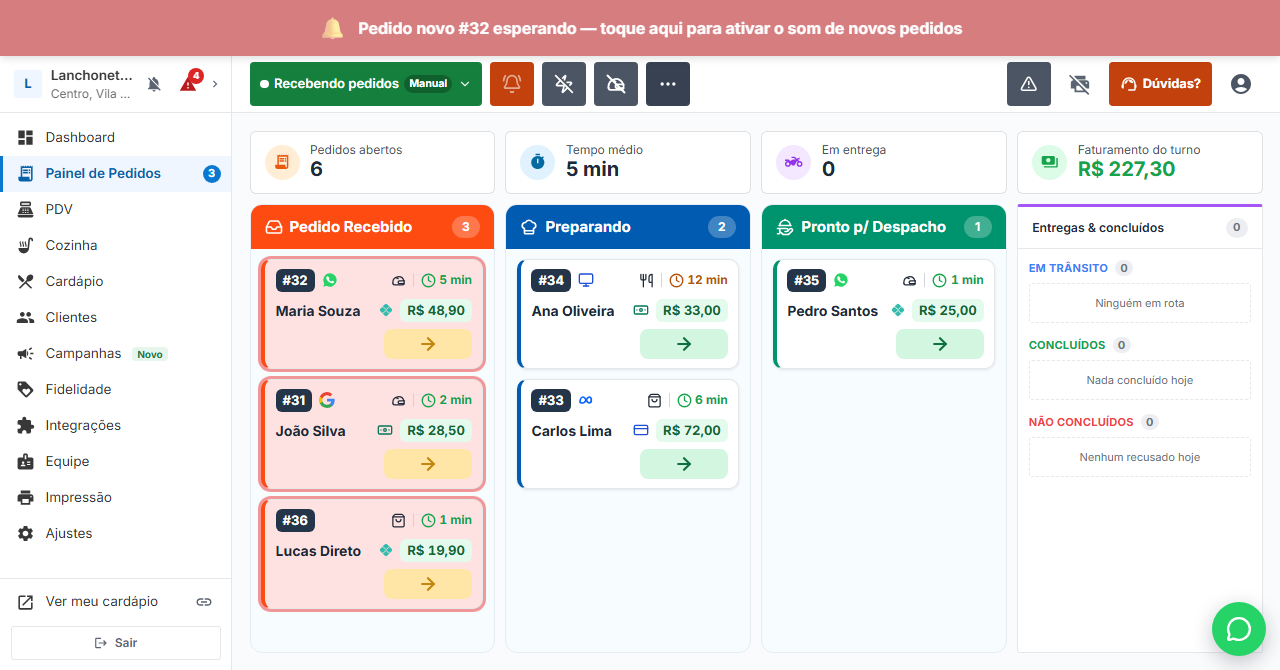
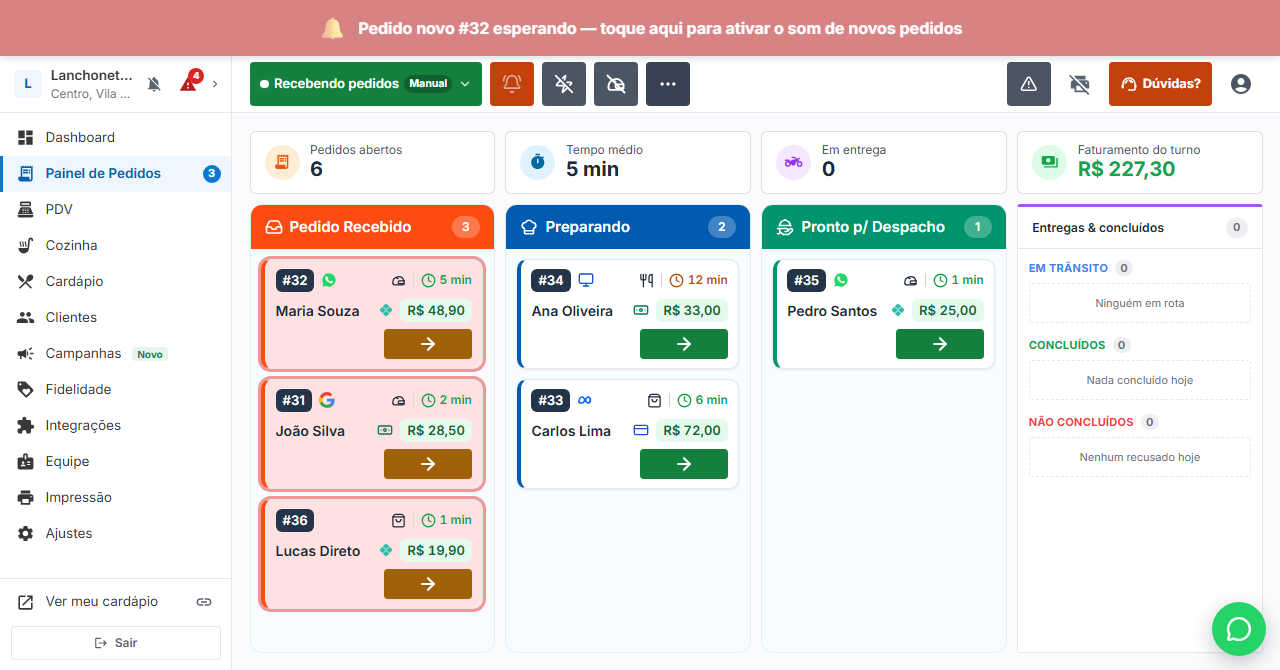
fix(kanban): botões de etapa sólidos e vivos com seta branca e cantos de 4px; peso até 600 no card (itens 55/56, noite 3)
- Aceitar: amarelo-ouro #A16207 (4,9:1); próxima etapa: verde #15803D (5,0:1); seta branca.
  Antes: tons claros do modelo com seta colorida (aceitar 2,6:1).
- Card e cabeçalhos das colunas com peso 600 (regra 6); painel do pedido no mesmo verde do botão.
- e2e-kanban-56 (34/34) e e2e-kanban-card (72/72) seguem a nova especificação.
- e2e-origem-55: a conta do banco tira os pedidos TESTE…, como o Dashboard (item 54); 35/35.
- Prints antes/depois em docs/kanban-56/noite3/.

diff --git a/app/admin/pedidos/page.tsx b/app/admin/pedidos/page.tsx
@@ -157,7 +157,10 @@ function BotaoEtapa({ cor, rotulo, onClick }: { cor: 'aceitar' | 'avancar'; rotu
       title={rotulo}
       data-testid="card-etapa"
       data-cor={cor}
-      className={`inline-flex h-[30px] w-[88px] items-center justify-center rounded-[8px] transition-colors focus-visible:outline focus-visible:outline-2 focus-visible:outline-offset-2 focus-visible:outline-[#1F2937] active:scale-[0.98] ${cor === 'aceitar' ? 'bg-[#FFE6A6] text-[#C2850D] hover:bg-[#FFDB85]' : 'bg-[#D3F6E0] text-[#0F713E] hover:bg-[#BDEFD0]'}`}
+      // Noite 3 (2026-10-06), pedido do dono: fundo sólido mais vivo, seta BRANCA e cantos menos
+      // arredondados. Amarelo-ouro #A16207 (4,9:1 com o branco) e verde #15803D (5,0:1); antes eram
+      // os tons claros do modelo com seta colorida (a do aceitar dava 2,6:1).
+      className={`inline-flex h-[30px] w-[88px] items-center justify-center rounded-[4px] text-white shadow-sm transition-colors focus-visible:outline focus-visible:outline-2 focus-visible:outline-offset-2 focus-visible:outline-[#1F2937] active:scale-[0.98] ${cor === 'aceitar' ? 'bg-[#A16207] hover:bg-[#854D0E]' : 'bg-[#15803D] hover:bg-[#166534]'}`}
     >
       <ArrowRight className="h-[20px] w-[20px]" strokeWidth={2.6} aria-hidden />
     </button>
@@ -968,9 +971,9 @@ export default function PedidosPage() {
                 <div className={`flex items-center justify-between px-4 py-3 text-white ${cfg.headerBg}`} data-testid={`coluna-cabecalho-${coluna}`}>
                   <div className="flex items-center gap-2">
                     <cfg.Icon className="h-[18px] w-[18px]" strokeWidth={2.2} />
-                    <h3 className="text-[15px] font-bold">{cfg.label}</h3>
+                    <h3 className="text-[15px] font-semibold">{cfg.label}</h3>
                   </div>
-                  <span className="min-w-[28px] rounded-full bg-white/25 px-2 py-0.5 text-center text-[12px] font-bold text-white" data-testid={`coluna-contador-${coluna}`}>{colOrders.length}</span>
+                  <span className="min-w-[28px] rounded-full bg-white/25 px-2 py-0.5 text-center text-[12px] font-semibold text-white" data-testid={`coluna-contador-${coluna}`}>{colOrders.length}</span>
                 </div>
                 <div className="flex-1 space-y-3 overflow-y-auto p-3 max-lg:overflow-visible">
                   {colOrders.map((order) => {
@@ -1009,7 +1012,7 @@ export default function PedidosPage() {
                         {/* Linha 1: #número · origem (item 55) ... atendimento | tempo. */}
                         <div className="flex items-center justify-between gap-2">
                           <div className="flex min-w-0 items-center gap-2">
-                            <span className="flex-shrink-0 rounded-[6px] bg-[#243549] px-2 py-0.5 text-[13px] font-bold text-white" data-testid="card-numero">#{order.numero}</span>
+                            <span className="flex-shrink-0 rounded-[6px] bg-[#243549] px-2 py-0.5 text-[13px] font-semibold text-white" data-testid="card-numero">#{order.numero}</span>
                             {(() => {
                               const o = origemVisivelNoCard(order)
                               return o ? (
@@ -1033,7 +1036,7 @@ export default function PedidosPage() {
                             })()}
                             <span className="h-4 w-px bg-[#D0D5DD]" aria-hidden />
                             <span
-                              className={`inline-flex items-center gap-1 whitespace-nowrap text-[12px] font-bold tabular-nums ${corTempo}`}
+                              className={`inline-flex items-center gap-1 whitespace-nowrap text-[12px] font-semibold tabular-nums ${corTempo}`}
                               title={pedidoParado(order, now) ? `Aberto há ${textoTempoPedido(idadeMs)}: ninguém fechou este pedido. Conclua ou cancele.` : 'Tempo desde que o pedido chegou'}
                               data-testid="card-tempo"
                             >
@@ -1045,7 +1048,7 @@ export default function PedidosPage() {
                         {/* Linha 2: cliente · telefone · forma de pagamento · valor. */}
                         <div className="mt-2 flex min-w-0 items-center justify-between gap-2">
                           <div className="flex min-w-0 items-center gap-2.5">
-                            <span className="min-w-0 truncate text-[14px] font-bold text-[#1F2937]" title={order.clienteNome || undefined}>{order.clienteNome || 'Cliente'}</span>
+                            <span className="min-w-0 truncate text-[14px] font-semibold text-[#1F2937]" title={order.clienteNome || undefined}>{order.clienteNome || 'Cliente'}</span>
                             {order.clienteTelefone && (
                               <span className="kc-tel inline-flex flex-shrink-0 items-center gap-1 whitespace-nowrap text-[12px] text-[#475467]" data-testid="card-telefone">
                                 <Phone className="h-[13px] w-[13px]" aria-hidden /> {mascararTelefoneBR(order.clienteTelefone)}
@@ -1059,7 +1062,7 @@ export default function PedidosPage() {
                                 <span className="kc-pag-nome">{order.pagamentoOnline ? 'Pix online' : order.formaPagamento === 'pix' ? 'Pix' : order.formaPagamento === 'dinheiro' ? 'Dinheiro' : 'Cartão'}</span>
                               </span>
                             )}
-                            <span className="whitespace-nowrap rounded-[6px] bg-[#E3FAED] px-2 py-0.5 text-[13px] font-bold tabular-nums text-[#166534]" data-testid="card-preco">{brl(order.total)}</span>
+                            <span className="whitespace-nowrap rounded-[6px] bg-[#E3FAED] px-2 py-0.5 text-[13px] font-semibold tabular-nums text-[#166534]" data-testid="card-preco">{brl(order.total)}</span>
                           </div>
                         </div>
                         {/* Linha 3: só a seta, à direita (amarelo = aceitar; verde = próxima etapa). Não abre o painel. */}
@@ -1078,7 +1081,7 @@ export default function PedidosPage() {
                           )}
                           {order.status === 'pronto' && order.tipo === 'entrega' && usaDespachoDeRotas(fluxo) && (
                             <span
-                              className="inline-flex h-[34px] items-center gap-1.5 rounded-[6px] border border-[#0369A1]/25 bg-alert-bg px-2.5 text-[11px] font-bold uppercase tracking-wide text-alert-text"
+                              className="inline-flex h-[34px] items-center gap-1.5 rounded-[6px] border border-[#0369A1]/25 bg-alert-bg px-2.5 text-[11px] font-semibold uppercase tracking-wide text-alert-text"
                               data-testid="card-na-logistica"
                               title="Despacho feito no módulo de Logística"
                             >

diff --git a/components/pedidos/painel-pedido.tsx b/components/pedidos/painel-pedido.tsx
@@ -23,8 +23,8 @@ import { textoTempoPedido } from '@/lib/tempo-pedido'
  */
 const brl = (v: number) => v.toLocaleString('pt-BR', { style: 'currency', currency: 'BRL' })
 const hora = (iso: string | null | undefined) => (iso ? new Date(iso).toLocaleTimeString('pt-BR', { hour: '2-digit', minute: '2-digit' }) : null)
-// Mesmo verde da seta de próxima etapa do card (item 56, modelo).
-const VERDE = 'text-[#0F713E]'
+// Mesmo verde do botão de próxima etapa do card (item 56; sólido desde a noite 3).
+const VERDE = 'text-[#15803D]'
 const TITULO = 'mb-2 text-[12px] font-bold uppercase tracking-wide text-text-subtle'
 
 type Etapa = { id: string; rotulo: string; quando: string | null }
